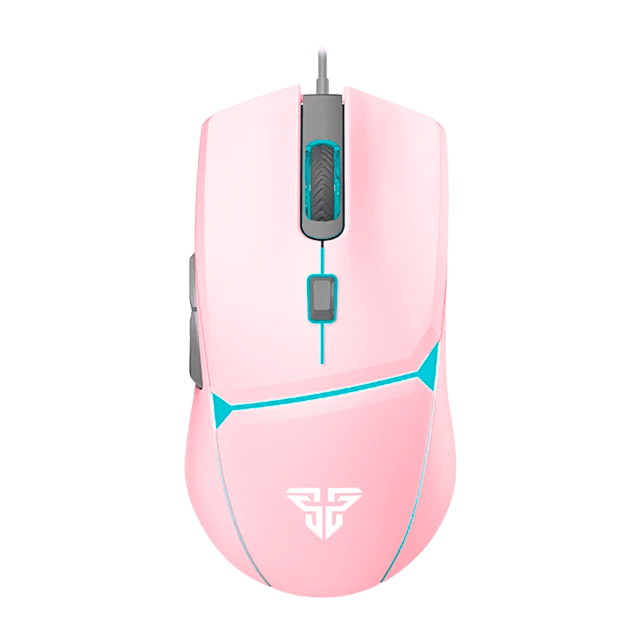
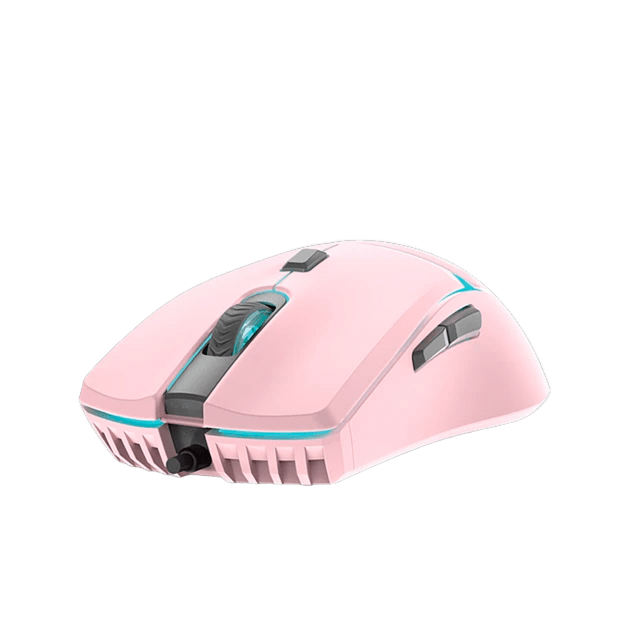
alfombrilla

Changed region(s): [[0.125, 0.0625, 0.875, 0.9375]]

diff --git a/components/GamingStreamingMenu.tsx b/components/GamingStreamingMenu.tsx
@@ -28,7 +28,7 @@ const COLS: Array<{
       },
       {
         label: "Mouse Pad Gamer",
-        href: "/gaming-streaming/perifericos/mousepad",
+        href: "/gaming-streaming/perifericos/alfombrilla",
       },
       {
         label: "Teclado Gamer",

diff --git a/data/products.ts b/data/products.ts
@@ -790,7 +790,7 @@ export const products: SeedProduct[] = [
   title: "Mousepad Fantech MP70 XL Basic Purple",
   kind: "UNIT_PRODUCT",
   category: "PERIPHERAL",
-  subcategory: "MOUSEPAD",
+  subcategory: "MOUSE",
   brand: "Fantech",
   sku: "MP70-Purple",
   shortDescription: